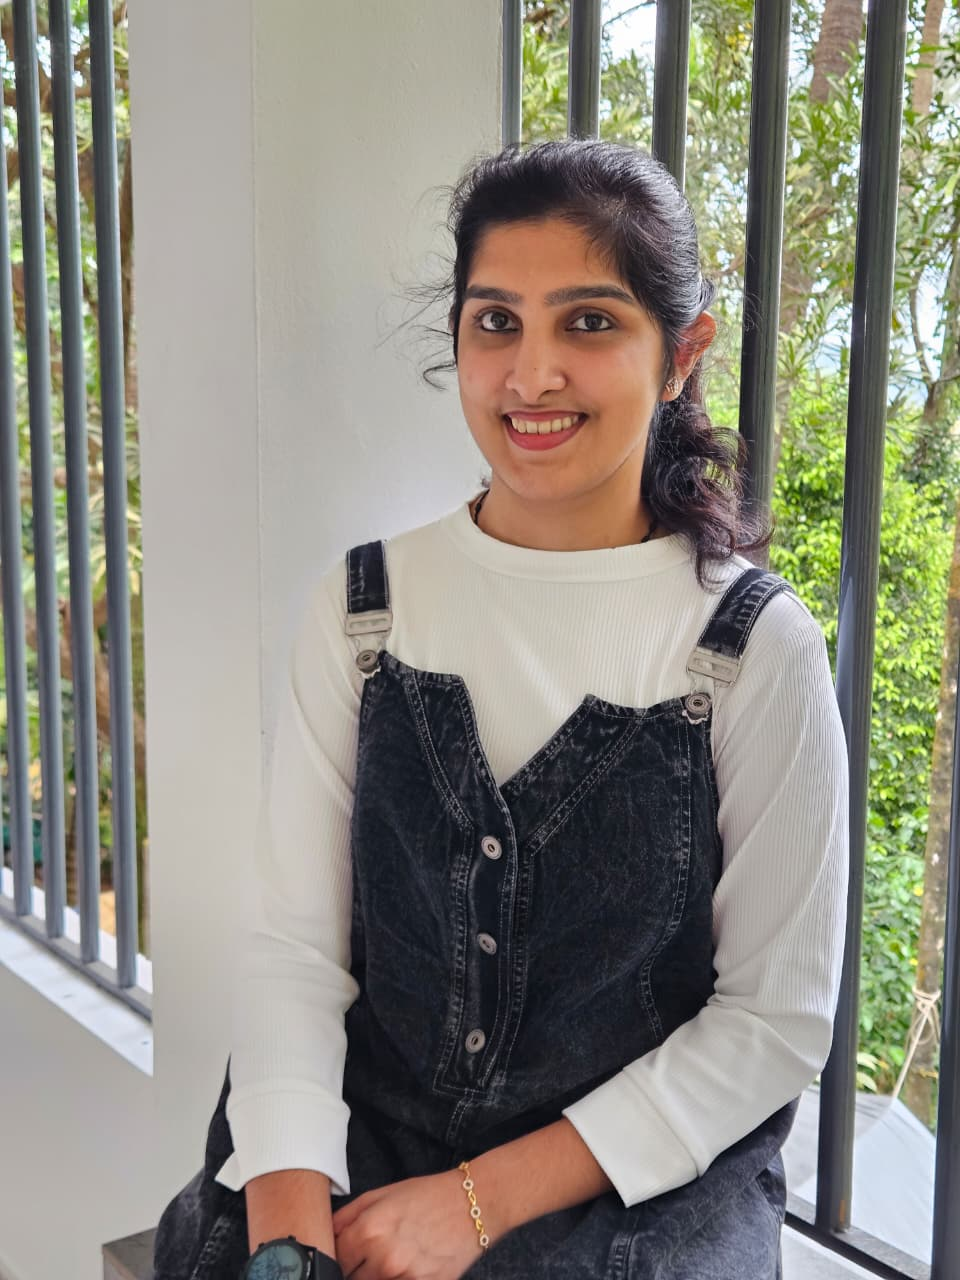
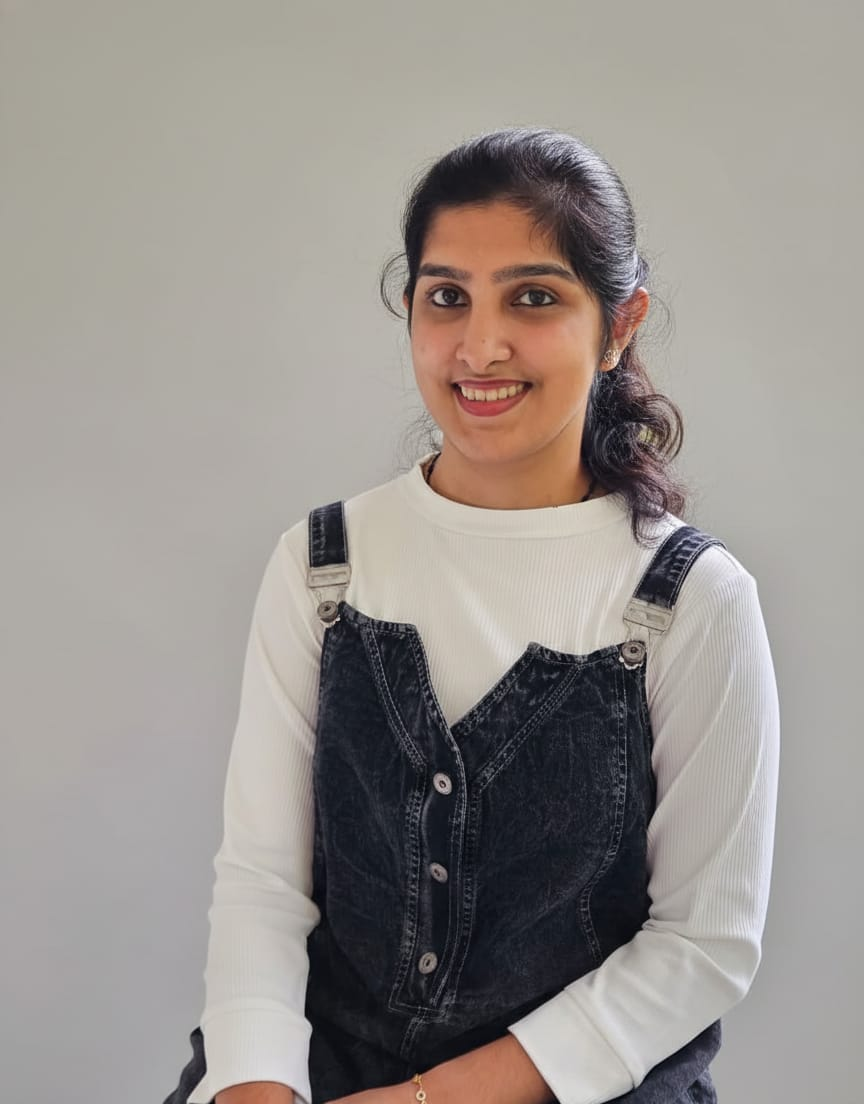
feat(portfolio): updated photo, preview section, and skill details

diff --git a/src/components/About/About.tsx b/src/components/About/About.tsx
@@ -30,7 +30,7 @@ const About = () => {
               <LiaDev className="about__icon" />
 
               <h5>Dev Blogs</h5>
-              <small>10+ Blogs</small>
+              <small>15+ Blogs</small>
             </article>
             <article className="about__card learning">
               <GrTechnology className="about__icon" />
@@ -42,7 +42,7 @@ const About = () => {
               <MdOutlineMilitaryTech className="about__icon" />
 
               <h5>Tech Stack</h5>
-              <small>15+ Tools & Skills</small>
+              <small>25+ Tools & Skills</small>
             </article>
           </div>
           <div className="about__me_content">
